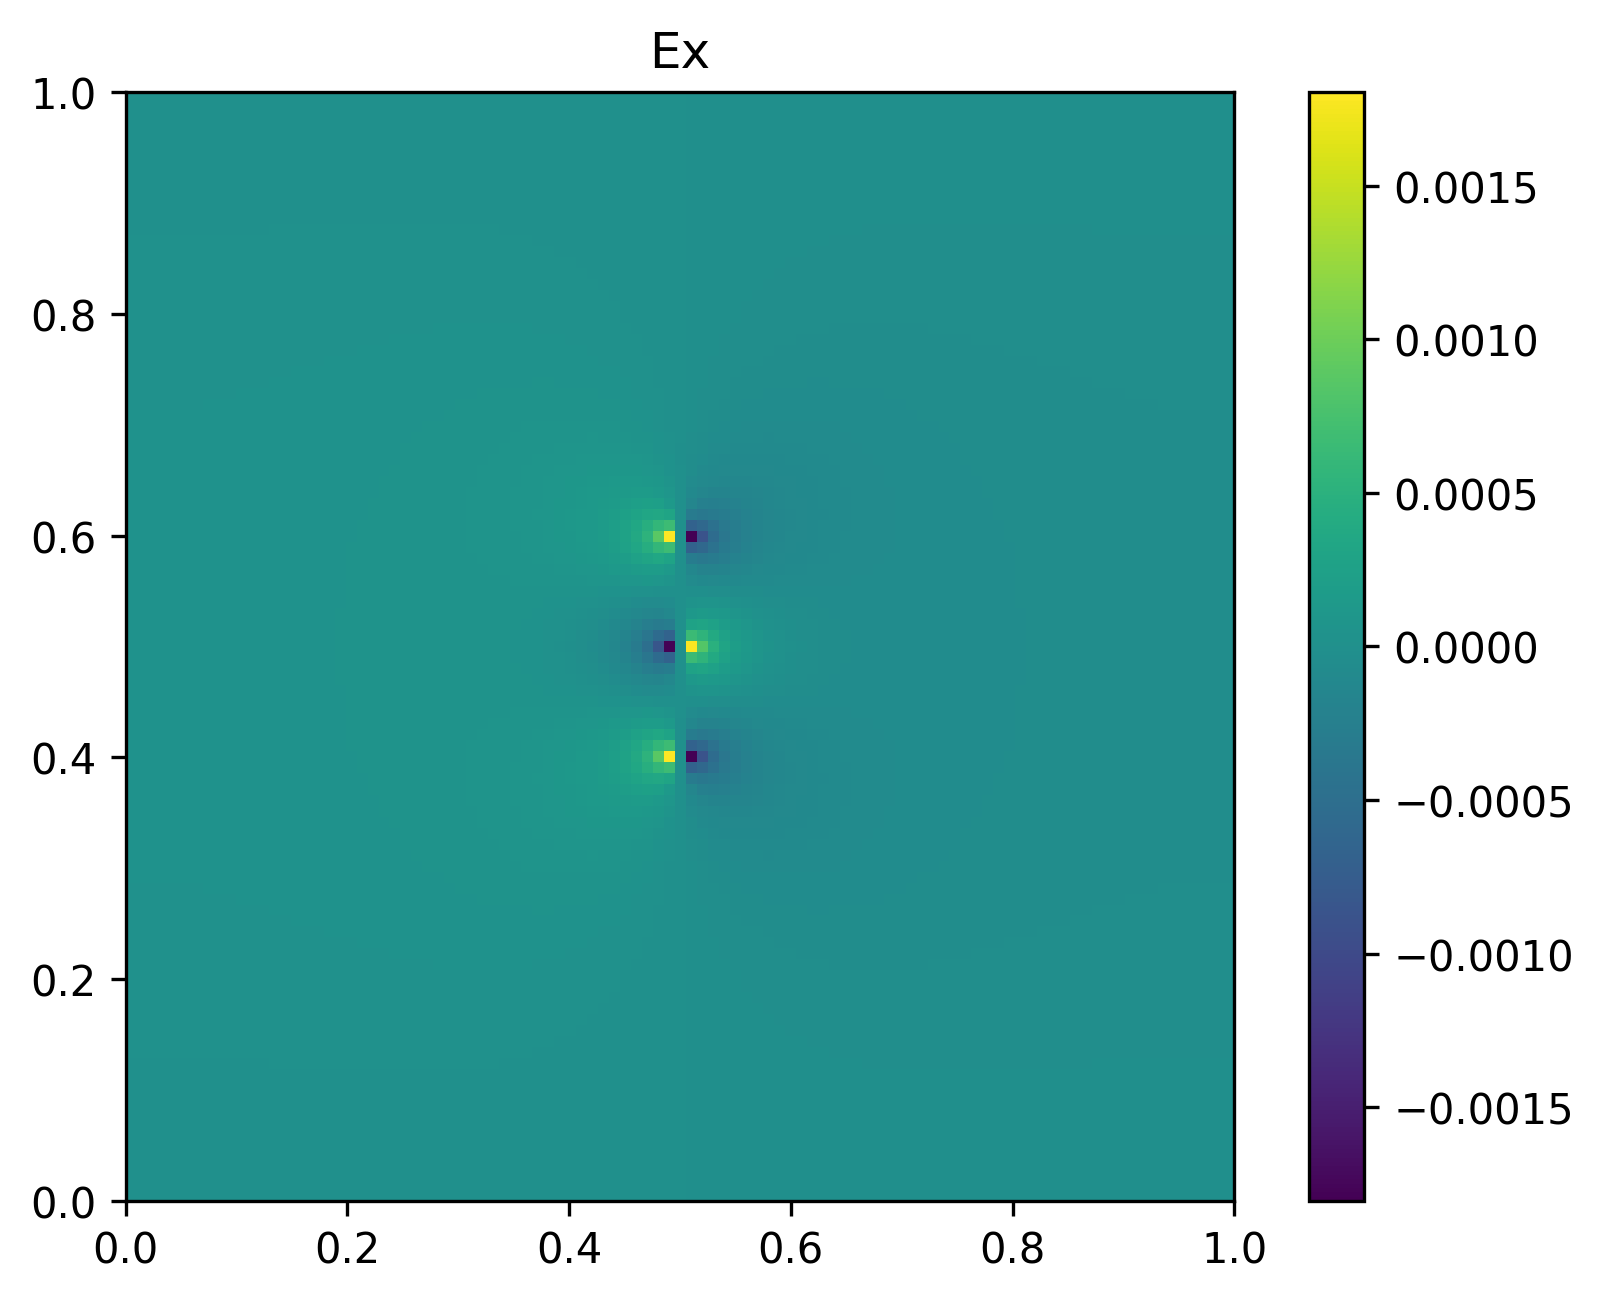
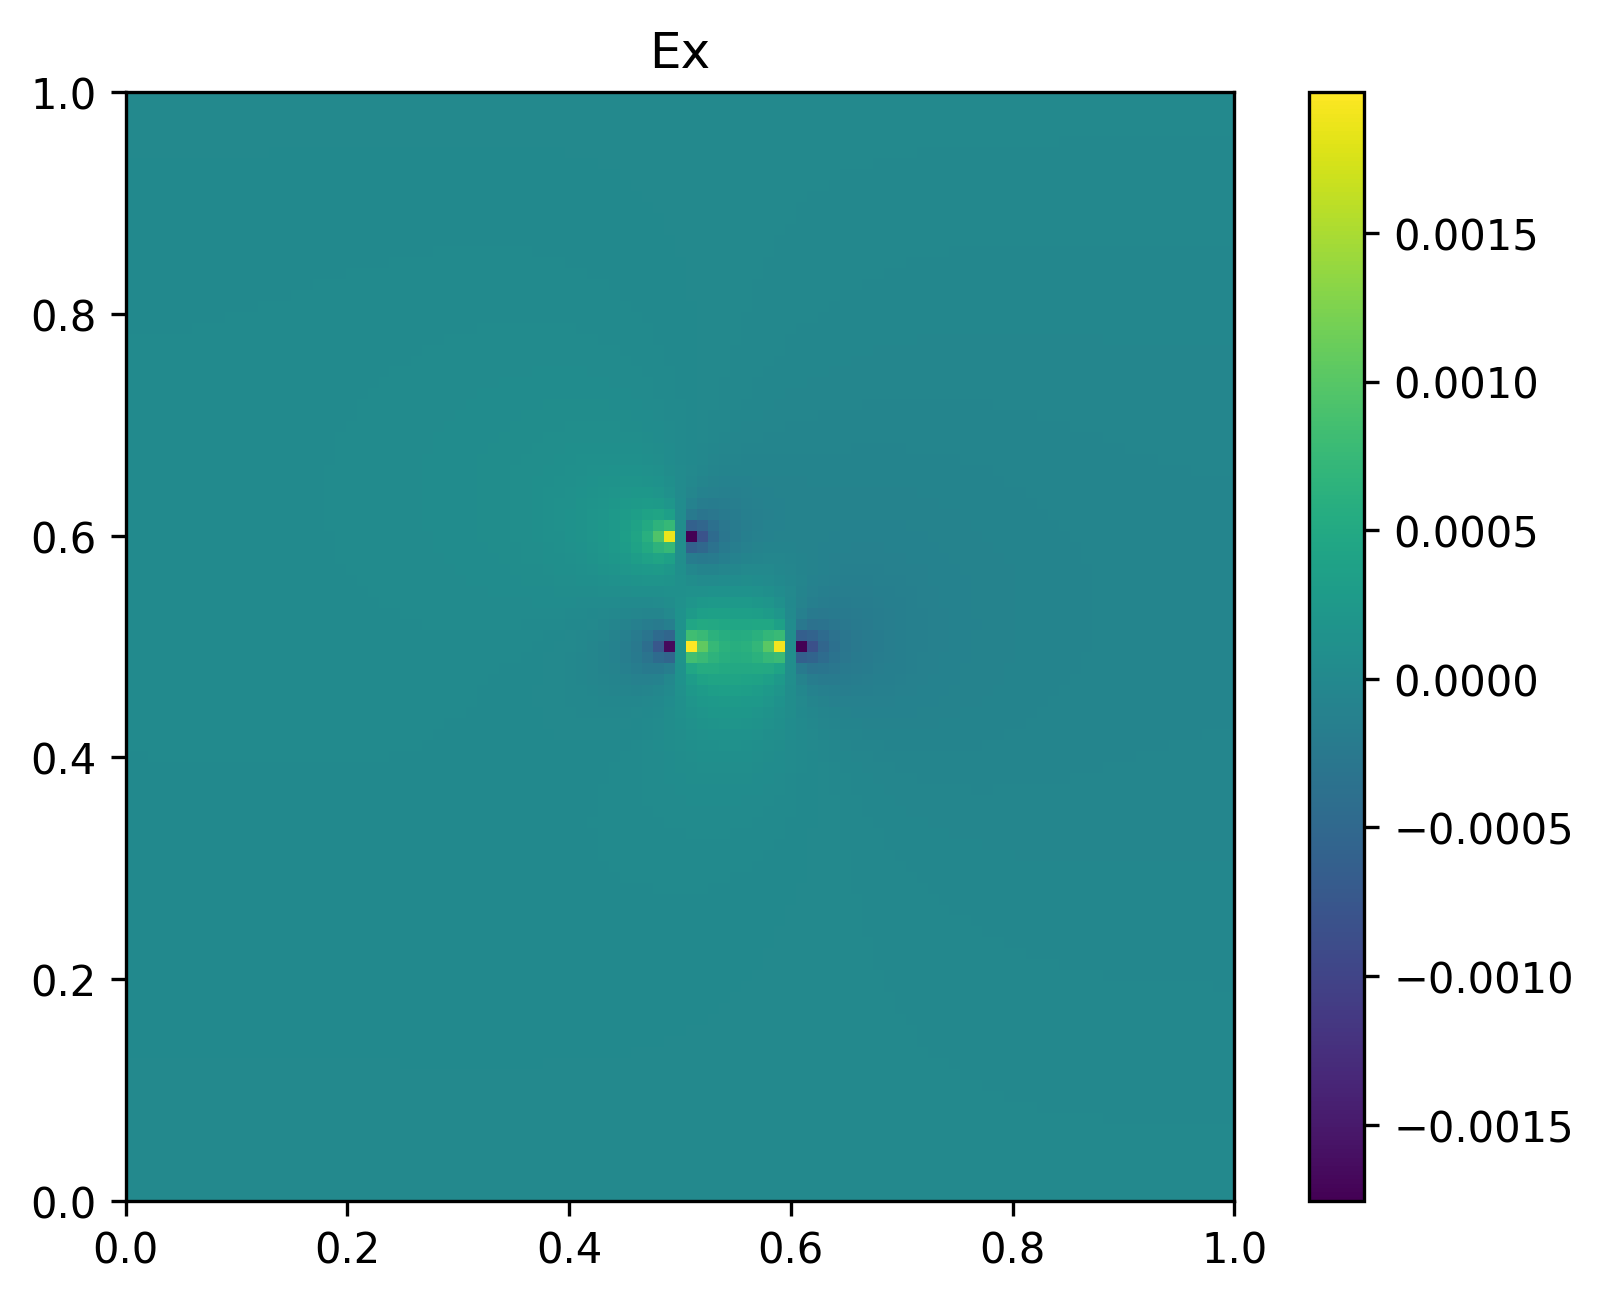
Simplified charge syntax
Added a method to add several charges at once.

diff --git a/src/poisson/calculate.py b/src/poisson/calculate.py
@@ -14,6 +14,15 @@ class Calculation:
     def addCharge(self, c):
         self.charges.append(c)
 
+    def addCharges(self, positions, signs):
+        if len(positions) == 0 or len(signs) == 0:
+            raise ValueError("Neitehr positions nor charges can be empty")
+        if len(positions) != len(signs):
+            raise ValueError("Must have same size.")
+        for (x, y), s in zip(positions, signs):
+            c = Charge(x, y, s)
+            self.addCharge(c)
+
     def buildRho(self):
         self.rho = np.zeros((self.grid.nx, self.grid.ny))
         for c in self.charges:
@@ -57,12 +66,7 @@ class Calculation:
 Lx, Ly, dx, dy = 1, 1, 0.01, 0.01
 g = Grid(Lx, Ly, dx, dy)
 calc = Calculation(g)
-c = Charge(0.5, 0.4, "-")
-c2 = Charge(0.5, 0.5, "+")
-c3 = Charge(0.5, 0.6, "-")
-calc.addCharge(c)
-calc.addCharge(c2)
-calc.addCharge(c3)
+calc.addCharges([(0.5, 0.4), (0.5, 0.5), (0.6, 0.5)], ["-", "+", "-"])
 calc.buildRho()
 calc.addBC(np.zeros((g.nx, g.ny)))
 calc.buildMatrix()
